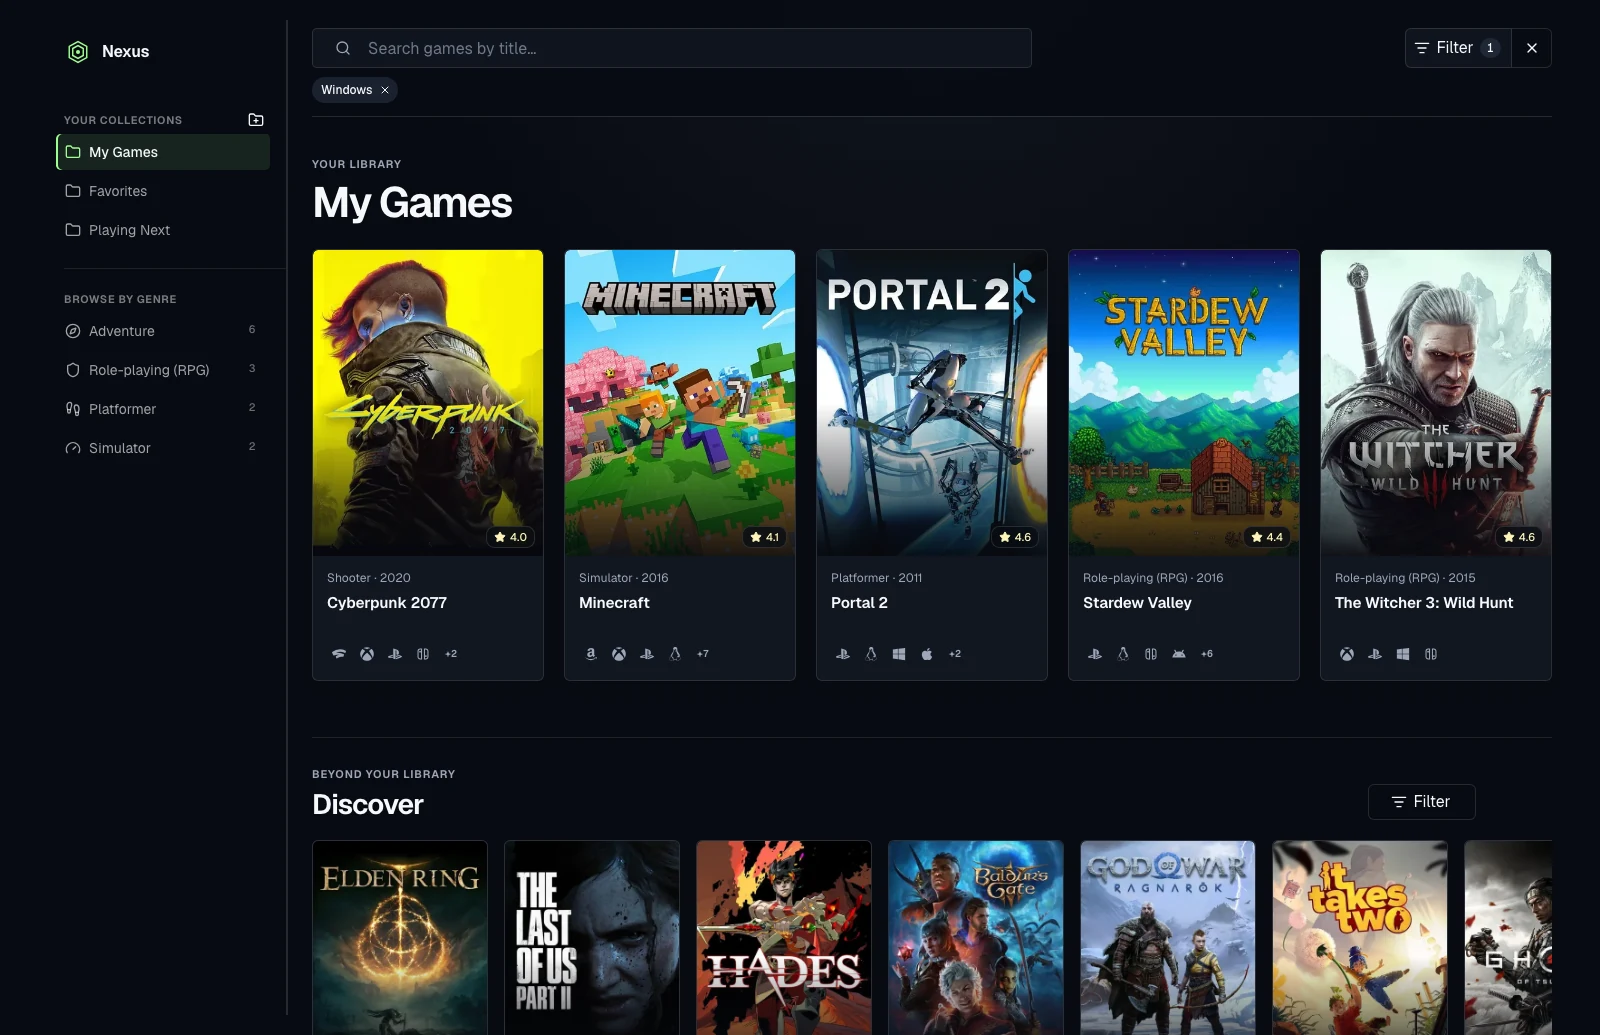
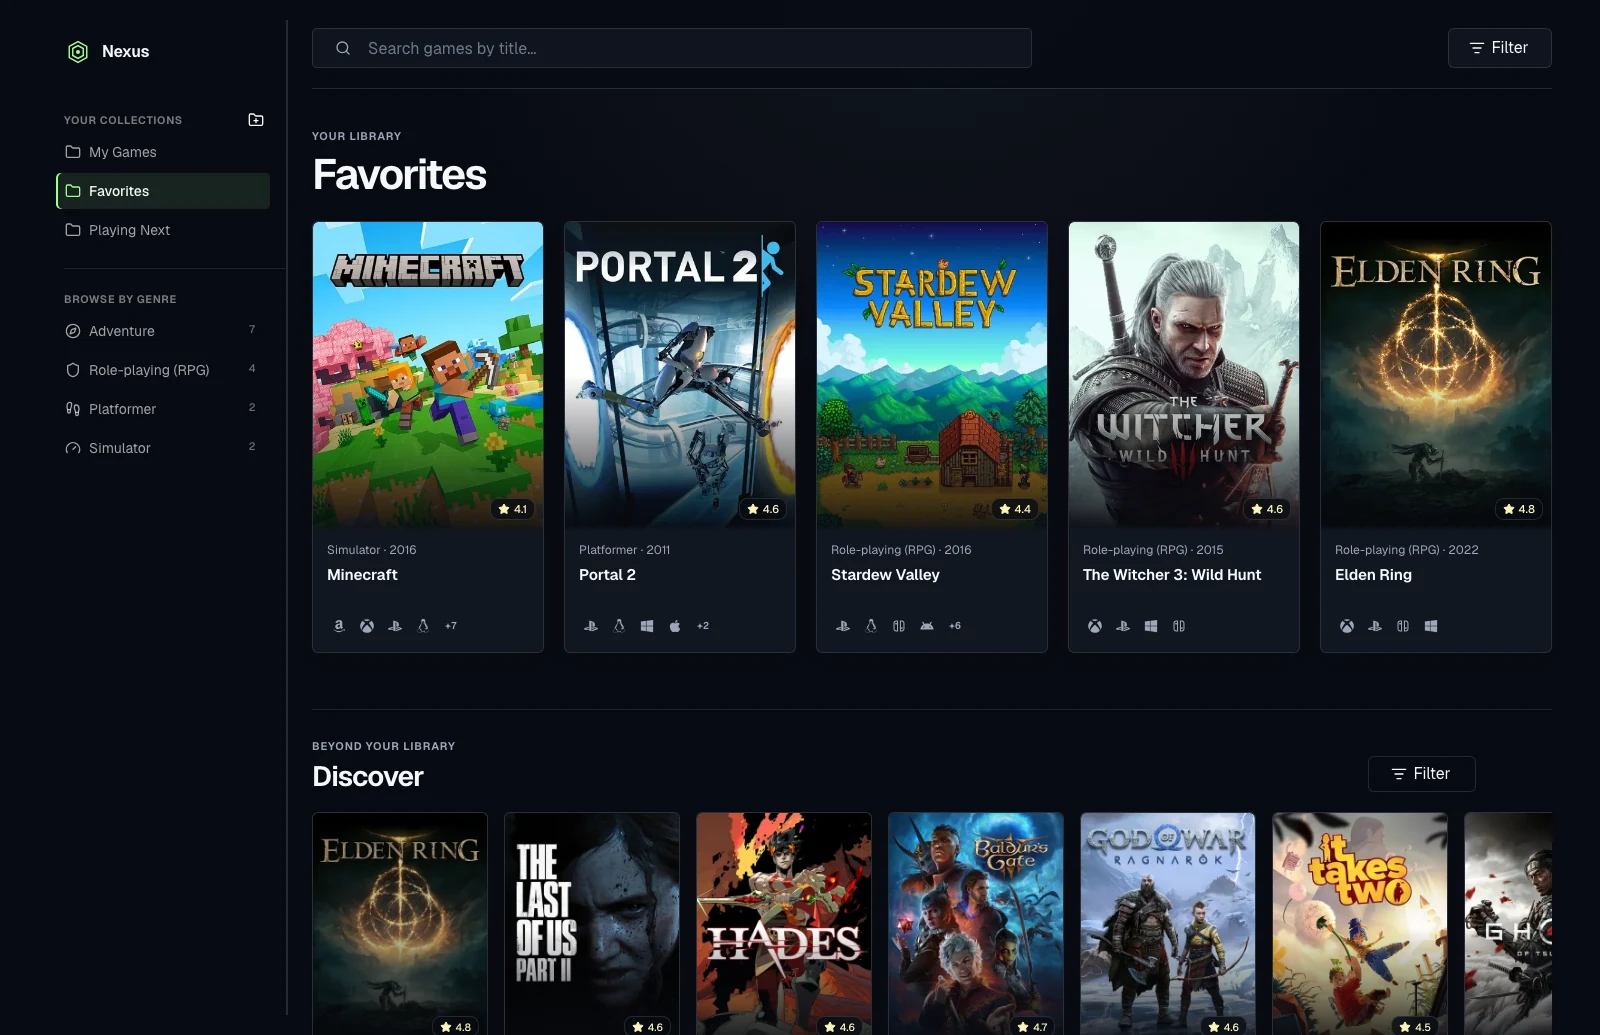
Refresh saved Discover screenshot
Update the README image with a populated Favorites collection and a visible dimmed Discover card that already belongs to the active collection, and describe the state in the image alt text.

diff --git a/README.md b/README.md
@@ -20,7 +20,7 @@
   <a href="https://nexus-library-six.vercel.app">Open the live demo →</a>
 </p>
 
-![Nexus Library editorial desktop interface showing fixed collection navigation, aligned search and filter controls, a five-card Windows-filtered library grid, and a compact Discover rail](docs/images/nexus-library.webp)
+![Nexus Library editorial desktop interface showing fixed collection navigation, a five-game Favorites grid, and a compact Discover rail with saved artwork subtly dimmed](docs/images/nexus-library.webp)
 
 ## Features
 
